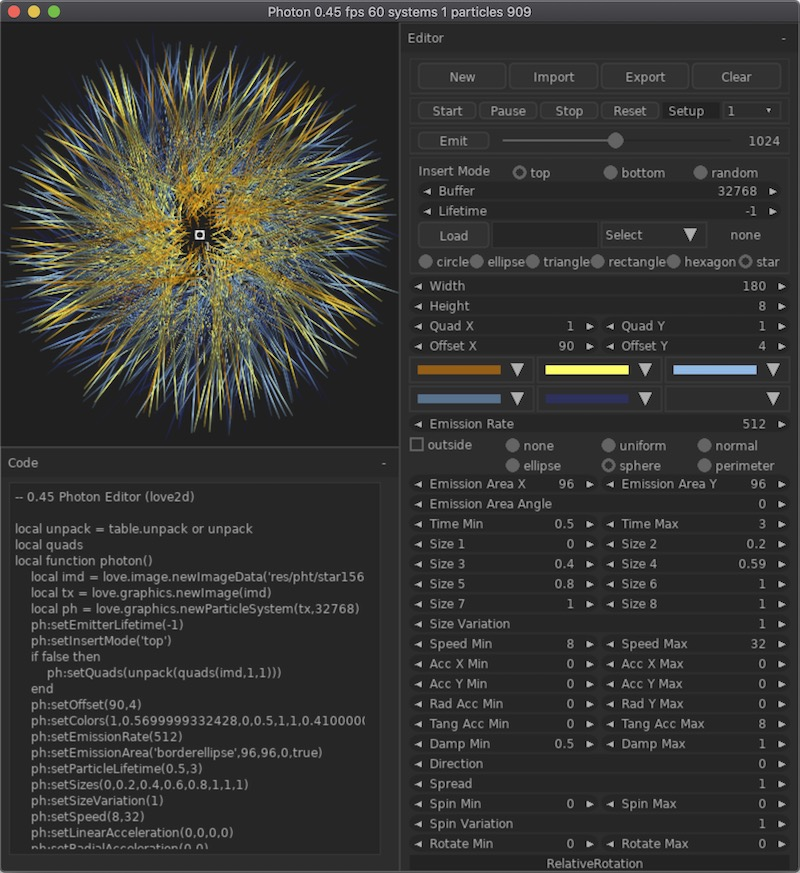
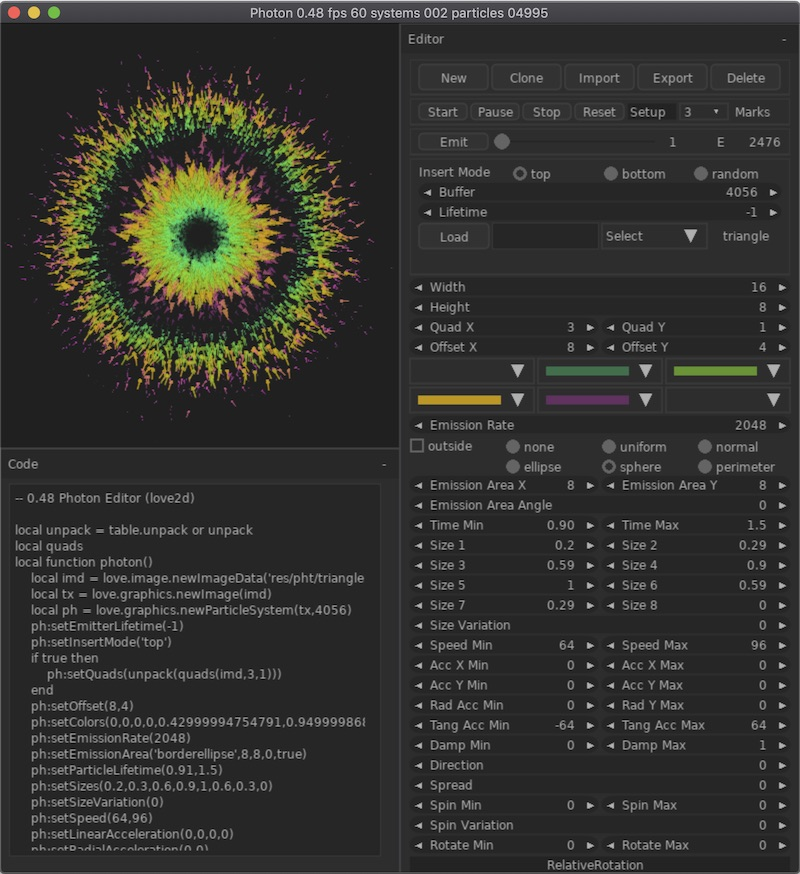
v0.48(update ui)

diff --git a/README.md b/README.md
@@ -4,7 +4,7 @@ Particle Editor for Love2d.
 
 WIP
 
-v0.47
+v0.48
 
 ![Screenshot](screenshot/screenshot1.jpg)
 
@@ -24,6 +24,8 @@ New systems immediately emit particles. If you press 'Pause' system just stop up
 
 'Setup' - edit current particle system.
 
+'Mark' - show and hide marks in the display.
+
 # Buffer & Lifetime
 
 You can set Buffer size and Lifetime counter when create new system. To change values you need press 'Reset' for selected system.
@@ -33,6 +35,10 @@ You can set Buffer size and Lifetime counter when create new system. To change v
 1 Provide path in source folder and press 'Load' button.
 
 2 Drag & Drop image.
+
+# Export
+
+Particle system exported with 'pht' extension. It is plain lua file which can used with 'require' or other import facilities.
 
 # Warning
 
